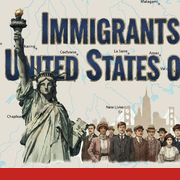
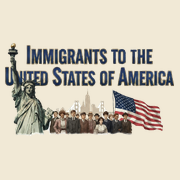
Add files via upload

diff --git a/index.html b/index.html
@@ -189,9 +189,9 @@ button:focus-visible, input:focus-visible, select:focus-visible { outline: 3px s
 /* ---------- úvodní obrazovka ---------- */
 #setup { position: fixed; inset: 0; overflow-y: auto; background: var(--ink); z-index: 40;
   padding: calc(env(safe-area-inset-top, 0px) + 16px) max(16px, env(safe-area-inset-right, 0px)) calc(env(safe-area-inset-bottom, 0px) + 24px) max(16px, env(safe-area-inset-left, 0px)); }
-.hero { max-width: 560px; margin: 0 auto 16px; border-radius: 12px; overflow: hidden; position: relative; aspect-ratio: 16 / 9; max-width: 100%;
-  background: url('board.jpg') 88% 2% / 520% auto no-repeat; border: 3px solid var(--paper); }
-.hero::after { content: ""; position: absolute; inset: 0; box-shadow: inset 0 -60px 50px -20px rgba(20,32,59,.65); }
+.hero { max-width: 560px; margin: 0 auto 16px; border-radius: 12px; overflow: hidden; background: var(--paper); border: 3px solid var(--paper); padding: 10px 12px; box-sizing: border-box; }
+.hero img { display: block; width: 100%; height: auto; }
+.sr-only { position: absolute; width: 1px; height: 1px; overflow: hidden; clip: rect(0 0 0 0); white-space: nowrap; }
 .hero-wrap { max-width: 560px; margin: 0 auto; }
 .setup-card { max-width: 560px; margin: 0 auto; background: var(--paper); border-radius: 12px; padding: 16px; display: flex; flex-direction: column; gap: 12px; }
 .setup-card h1 { margin: 0; font-family: var(--f-display); font-weight: 400; font-size: 26px; color: var(--ink); line-height: 1.1; text-wrap: balance; }
@@ -284,6 +284,24 @@ label.fl { display: flex; flex-direction: column; gap: 4px; font-family: var(--f
 .statecard .band .r.big { font-size: 9.6cqw; margin-bottom: 1.5cqw; }
 .statecard .band i { font-style: normal; }
 .statecard .band b { font-weight: 400; font-variant-numeric: tabular-nums; }
+
+.manual { display: flex; flex-direction: column; gap: 6px; }
+.mtoc { display: flex; flex-wrap: wrap; gap: 6px; padding-bottom: 6px; border-bottom: 2px solid var(--paper-3); }
+.mtoc button { border: 0; border-radius: 14px; background: var(--paper-2); color: var(--ink); font-family: var(--f-ui); font-size: 14px; font-weight: 600; padding: 5px 10px; }
+.msec { scroll-margin-top: 8px; }
+.msec h3 { font-family: var(--f-display); font-weight: 400; font-size: 19px; color: var(--ink); margin: 14px 0 4px; }
+.msec p, .msec li { font-size: 14.5px; line-height: 1.5; margin: 4px 0; }
+.msec ul { padding-left: 18px; margin: 4px 0; }
+.mex { background: #fff6dc; border-left: 4px solid var(--gold); border-radius: 6px; padding: 6px 10px; margin: 6px 0; }
+.mex b { font-family: var(--f-ui); font-size: 14px; color: var(--ink); }
+.mex p { margin: 2px 0 0; }
+.mcard { display: flex; gap: 12px; align-items: flex-start; background: #fbf7ec; border: 1px solid var(--paper-3); border-radius: 10px; padding: 8px; margin: 6px 0; }
+.mcard img { width: 120px; flex: none; border-radius: 6px; box-shadow: 0 2px 6px rgba(0,0,0,.25); }
+.mcard > div { min-width: 0; }
+.mcard > div > b { font-family: var(--f-ui); font-size: 17px; color: var(--ink); margin-right: 6px; }
+.mcard p { margin: 4px 0 0; font-size: 14px; line-height: 1.45; }
+.mrow { display: flex; gap: 10px; flex-wrap: wrap; margin: 6px 0; }
+@media (max-width: 420px) { .mcard img { width: 96px; } }
 </style>
 </head>
 <body>
@@ -1905,6 +1923,13 @@ if(typeof module!=="undefined")module.exports=(typeof window!=="undefined"?windo
       m.dataset.x = lx(s); m.dataset.y = ly(s) - 30;
       m.append(sv('circle', { r: 16, fill: st.legal ? '#fff' : '#d9d4c7', stroke: '#1d1d1f', 'stroke-width': 2 }));
       m.append(sv('polygon', { points: starPoly(14.5, 6), fill: st.legal ? c : 'none', stroke: st.legal ? '#1d1d1f' : c, 'stroke-width': st.legal ? 1.2 : 3 }));
+      if (st.label === 'independent') {
+        // vlajka značky Independent vedle hvězdy majitele
+        const fl = sv('g', { transform: 'translate(19,-1)' });
+        fl.append(sv('rect', { x: -0.5, y: -0.5, width: 31, height: 18, fill: '#1d1d1f', rx: 1.5 }));
+        const im = sv('image', { href: 'flag-independent.jpg', x: 0, y: 0, width: 30, height: 17, preserveAspectRatio: 'xMidYMid slice' });
+        fl.append(im); m.append(fl);
+      }
       if (st.label) {
         const b = sv('g', { transform: 'translate(17,-14)' });
         b.append(sv('rect', { x: -10, y: -9, width: 22, height: 17, rx: 4, fill: st.label === 'independent' ? '#c62420' : '#14203b' }));
@@ -2413,7 +2438,7 @@ if(typeof module!=="undefined")module.exports=(typeof window!=="undefined"?windo
   // ---------- menu ----------
   function openMenu() {
     sheet('Nabídka', (b, close) => {
-      b.append(h('button', { class: 'btn soft', onclick: () => { close(); openRules(); } }, 'Pravidla a výklad v aplikaci'));
+      b.append(h('button', { class: 'btn soft', onclick: () => { close(); openRules(); } }, 'Pravidla a manuál'));
       b.append(h('button', { class: 'btn soft', onclick: () => { close(); openLog(); } }, 'Záznam hry'));
       b.append(h('button', { class: 'btn soft', onclick: () => { fast = !fast; close(); renderPanel(); toast(fast ? 'Tahy počítače jsou zrychlené.' : 'Normální rychlost.'); } }, fast ? 'Normální rychlost počítače' : 'Zrychlit tahy počítače'));
       b.append(h('button', { class: 'btn red', onclick: () => { close(); confirmBox('Ukončit rozehranou hru a začít novou?', 'Nová hra', () => { clearSave(); showSetup(); }); } }, 'Nová hra'));
@@ -2424,39 +2449,120 @@ if(typeof module!=="undefined")module.exports=(typeof window!=="undefined"?windo
       G.log.slice().reverse().forEach(l => b.append(h('div', { style: 'font-size:14px;border-bottom:1px solid var(--paper-3);padding:4px 0' }, h('span', { class: 'tag' }, 'kolo ' + l.turn), l.text)));
     });
   }
+  // ============ pravidla a manuál ============
   function openRules() {
-    sheet('Pravidla', b => {
-      if (BETA ? (G && G.conf && G.conf.rules) : (E.CONF.shDeposit || E.CONF.halfRefund)) {
-        const R = BETA ? G.conf.rules : { shDeposit: E.CONF.shDeposit, halfRefund: E.CONF.halfRefund }, L = [];
-        if (R.shDeposit) L.push('<li>Jistina za zápůjčku Chief a Commander se snižuje o slevu z karet Shareholder.</li>');
-        if (R.halfRefund) L.push('<li>Kdo je při zápůjčce Chief nebo Commander přeplacen, dostane zpět jen polovinu jistiny.</li>');
-        if (L.length) b.append(h('div', { class: 'rules', html: '<h4>' + (BETA ? 'Pravidla této beta hry' : 'Doplněná pravidla') + '</h4><ul>' + L.join('') + '</ul>' }));
-      }
-      b.append(h('div', { class: 'rules', html: RULES_HTML }));
-    });
+    sheet('Pravidla a manuál', b => { b.append(buildManual()); });
   }
-  const RULES_HTML = `
-<h4>Cíl hry</h4><p>Kupujte státy a jezděte figurkou mezi bankami FED (New York) a BC (Sacramento). V bance inkasujete částky z karet vašich států. Vyhrává, kdo jako poslední nezbankrotuje (nebo kdo dosáhne cíle nastaveného na začátku).</p>
-<h4>Tah</h4><ul><li>Házíte dvěma kostkami. Dvojice znamená hod navíc. Za poplatek můžete házet 1 kostkou (5 000 $), 3 kostkami (10 000 $) nebo 4 kostkami (20 000 $).</li><li>Na rozcestí vybíráte směr. Do banky dojedete vždy – zbytek hodu propadá.</li><li>Při prvním okruhu FED → BC → FED smíte jednou hod přehodit.</li></ul>
-<h4>Mýtné</h4><ul><li>Každé překročení hranice cizího státu (vjezd i výjezd) stojí 1 000 $, každé zastavení v něm dalších 1 000 $.</li><li>Mýtné se platí až za státy legalizované průjezdem bankou FED.</li><li>Zastavení v bance se počítá jako zastavení ve státě: v bance FED se platí majiteli New Yorku, v bance BC majiteli Californie. Cesta do banky bez dalšího zastavení v tom státě tedy stojí nejméně 3 000 $ (vjezd, zastavení v bance, výjezd).</li><li>Double Label, Chief (×2) a Commander (×4) se násobí.</li></ul>
-<h4>Placené trasy</h4><p>Zkratky (modré s hvězdou) a Kanadská dálnice se platí bance, a pokud někdo vlastní Californii, jemu. Lodní a letecké linky se platí bance, nebo majiteli karty Sea Lines / Air Lines. Majitel příslušné karty jezdí zdarma.</p>
-<h4>Jak aplikace vykládá nejasná místa</h4><ul>
-<li>Každé políčko (i s hvězdou, lodí, letadlem) je 1 krok. Letadla a lodě neleží v žádném státě – nepočítá se tam mýtné ani se nedá nic koupit.</li>
-<li>Zákaz „vrátit se stejnou cestou": během jedné jízdy z banky nelze projet žádný úsek trasy dvakrát. Po příjezdu do banky začíná nová jízda a lze jet zpět stejnou trasou.</li>
-<li>Na placenou trasu nelze vjet bez peněz na jízdenku, pokud existuje jiná cesta.</li>
-<li>Dvojice platí jen při hodu dvěma kostkami.</li>
-<li>V bankách se vyplácí za všechny vlastněné státy, i nelegalizované. Legalizace ovlivňuje jen mýtné.</li>
-<li>Chief a Commander násobí mýtné a výplatu v BC, výplatu ve FED ne (podle textu na kartě „except FED").</li>
-<li>Special Label: při zastavení se platí navíc hodnota celého hodu × 1 000 $ (s násobením Chief/Commander).</li>
-<li>Shareholder: majitel má slevu na všechny speciální karty (sčítá se) a dostává od banky svůj podíl z ceny, kdykoli si speciální kartu koupí jiný hráč. Na Californii a značky se nevztahuje.</li>
-<li>Mafia vyřadí hráče, se kterým se figurky potkají nebo projedou stejným políčkem – kdokoli z nich jede. Na políčkách bank se vyřazovat nedá. Jakmile zůstane jediný hráč, hra okamžitě končí.</li>
-<li>Independent Label zakazuje vstup do státu i letadlem nebo lodí. Na leteckou či lodní linku, která vede jen do zakázaného státu, nelze nastoupit.</li>
-<li>Second National Bank: hráč, který vjede do jejího státu, inkasuje od majitele 1 000 $ za každý svůj stát a začíná tam novou jízdu (nezastavuje).</li>
-<li>Independent Label nelze umístit, pokud by některému hráči nezbyla žádná cesta z banky do banky ani okruh. Majiteli Californie musí vždy zůstat okruh kolem banky FED.</li>
-<li>Do slepé uličky nelze vjet: hra nabízí jen směry, ze kterých se dá dojet do banky bez otáčení a bez průjezdu státem s Independent Label.</li>
-<li>Nemá-li hráč na platbu, zaplatí, co má, a zbytek dluží. Dluh splatí prodejem majetku bance za nákupní cenu (zapůjčené karty vrátí za jistinu). Kdo nemůže, zbankrotuje a jeho majetek se vrací bance.</li>
-<li>Karta California: majitel v Sacramentu nic neinkasuje a ostatním vyplácí jejich podíl, ve FED dostává 30 000 $.</li>
-</ul>`;
+  function buildManual() {
+    const $s = s => D.states[s];
+    const C = E.CARDS, L = E.LABELS;
+    const ca = $s('California');
+    const shDep = E.CONF.shDeposit, half = E.CONF.halfRefund;
+    const priceOf = (kind, s) => { const c = D.chains.find(ch => ch.kind === kind && ch.ends.some(n => D.nodes[n].s === s)); return c ? fmt(c.price) : '—'; };
+    const shortNY = D.chains.find(c => c.kind === 'short' && c.ends.every(n => D.nodes[n].s === 'New York'));
+    const oh = $s('Ohio'), tx = $s('Texas');
+    const wrap = h('div', { class: 'manual' });
+    const secs = [];
+    const sec = (id, title, ...kids) => { secs.push([id, title]); wrap.append(h('section', { id: 'm-' + id, class: 'msec' }, h('h3', null, title), ...kids)); };
+    const p = (html) => h('p', { html });
+    const ul = (...items) => h('ul', null, items.map(t => h('li', { html: t })));
+    const ex = (title, html) => h('div', { class: 'mex' }, h('b', null, 'Příklad: ' + title), h('p', { html }));
+    const cardBox = (img, name, price, html, tall) => h('div', { class: 'mcard' }, h('img', { src: `card-${img}.jpg`, alt: name, class: tall ? 'tall' : '' }),
+      h('div', null, h('b', null, name), price ? h('span', { class: 'tag' }, price) : null, h('p', { html })));
+
+    sec('cil', 'Cíl hry',
+      p(`Jste přistěhovalec, který chce v Americe zbohatnout. Kupujete státy, jezdíte figurkou mezi dvěma bankami – <b>FED v New Yorku</b> a <b>BC (Bank of California) v Sacramentu</b> – a v bankách inkasujete výplaty za státy, které vlastníte. Ostatní hráči vám platí mýtné, když vašimi státy projíždějí.`),
+      p(`Vyhrává hráč, který jako poslední nezbankrotuje. Na začátku hry lze místo toho nastavit cíl: určitou hotovost nebo počet států. Hra vždy skončí, jakmile zůstane jediný hráč – ať ostatní zbankrotují, nebo je vyřadí Mafia.`));
+
+    sec('zacatek', 'Začátek hry',
+      ul(`Každý hráč začíná s <b>${fmt(E.CONF.startCash)}</b> na políčku banky FED v New Yorku (velká modrá hvězda).`,
+        `Hráči se střídají v pořadí podle úvodní obrazovky. Hrát může 2–7 hráčů, lidé i počítač (tři obtížnosti).`,
+        `Při <b>prvním</b> příjezdu do banky BC a při prvním návratu do banky FED dostane hráč bonus <b>${fmt(E.CONF.bonus)}</b>.`));
+
+    sec('tah', 'Průběh tahu',
+      p(`<b>1. Hod kostkami.</b> Standardně házíte dvěma kostkami zdarma. Za poplatek si můžete na celý tah zvolit 1 kostku (${fmt(E.DICE_FEE[1])}), 3 kostky (${fmt(E.DICE_FEE[3])}) nebo 4 kostky (${fmt(E.DICE_FEE[4])}). Jedna kostka se hodí, když chcete přesně zastavit na blízkém státu, více kostek, když spěcháte do banky.`),
+      p(`<b>2. Dvojice.</b> Hodíte-li dvěma kostkami dvě stejná čísla, po dokončení jízdy házíte znovu.`),
+      p(`<b>3. Přehození.</b> Během prvního okruhu FED → BC → FED smí každý hráč <b>jednou</b> svůj hod přehodit.`),
+      p(`<b>4. Jízda.</b> Figurka jede o tolik polí, kolik jste hodili. Každé políčko trasy (červeno-bílé, s hvězdou, s lodí nebo letadlem) je 1 krok. Na rozcestí aplikace zobrazí očíslované směry – klepněte na číslo na mapě nebo vyberte směr v panelu, kde vidíte i cenu jízdenky a mýtného.`),
+      p(`<b>5. Zastavení.</b> Kde figurka skončí, zaplatíte případné mýtné za zastavení. Stojíte-li ve státě, který nikdo nevlastní, můžete ho koupit.`),
+      ex('tah', `Hodíte 4 + 2 = 6. Figurka jede 6 polí, na rozcestí si vyberete cestu přes Pennsylvanii. Zastaví v Ohiu, které je volné – aplikace nabídne koupi za ${fmt(oh.price)}.`));
+
+    sec('trasa', 'Trasa a banky',
+      ul(`Jezdí se <b>z banky do banky</b>. Po příjezdu do banky (FED nebo BC) figurka vždy zastaví – zbytek hodu propadá – a začíná nová jízda.`,
+        `Během jedné jízdy se <b>nesmíte otočit ani projet stejný úsek dvakrát</b>. Do stejné banky se lze vrátit jen okruhem, ne stejnou cestou, kterou jste z ní odjeli. Po příjezdu do banky můžete jet zpět stejnou trasou.`,
+        `Aplikace nabízí jen směry, ze kterých se dá do banky dojet – do slepé uličky (třeba ke státu se značkou Independent) vás nepustí.`,
+        `Na placenou trasu nelze vjet bez peněz na jízdenku, pokud existuje jiná cesta.`),
+      p(`<b>Druhy tras:</b>`),
+      ul(`<b>Červené přerušované</b> – silnice zdarma.`,
+        `<b>Modré s hvězdami</b> – zkratky. Jízdenka se platí při vjezdu (např. zkratka přes stát New York ${shortNY ? fmt(shortNY.price) : ''}). Platí se bance, a pokud někdo vlastní Californii, jemu.`,
+        `<b>Kanadská dálnice</b> (Detroit – Buffalo) – placená stejně jako zkratky.`,
+        `<b>Letecké linky</b> (letadla) – např. New York – Seattle ${priceOf('air', 'Washington')}. Platí se bance, nebo majiteli karty Air Lines.`,
+        `<b>Lodní linky</b> – Houston – Tampa a Florida – New York. Platí se bance, nebo majiteli karty Sea Lines.`,
+        `Letadla a lodě neleží v žádném státě – nepočítá se tam mýtné a nedá se nic koupit.`),
+      ex('cesta letadlem', `Stojíte v New Yorku a vydáte se letadlem do Seattlu: zaplatíte jízdenku ${priceOf('air', 'Washington')} a za 5 kroků jste na druhé straně kontinentu. Majitel karty Air Lines letí zdarma.`));
+
+    sec('staty', 'Státy',
+      ul(`Stát koupíte, když <b>zastavíte</b> na kterémkoli políčku v něm a stát je volný. Stát New York nelze koupit z políčka banky FED, jen z ostatních políček ve státě. Washington D.C. je zdarma pro prvního, kdo na něj vstoupí.`,
+        `Každá karta státu má <b>cenu</b>, <b>výplatu ve FED</b> a <b>výplatu v BC</b>. Klepnutím na stát na mapě kartu kdykoli zobrazíte.`,
+        `Koupený stát je nejdřív <b>nelegalizovaný</b> (na mapě prázdná hvězda). Legalizujete ho průjezdem bankou FED – teprve pak za něj vybíráte mýtné. Výplaty v bankách dostáváte za všechny své státy.`,
+        `Dražší jsou státy u bank, státy s letištěm nebo přístavem a státy na krátkých okruzích kolem bank – vracíte se s nimi do banky častěji.`),
+      h('div', { class: 'mrow' }, stateCard('Ohio', 'card'), stateCard('Texas', 'card'), stateCard('New York', 'card')));
+
+    sec('myto', 'Mýtné',
+      ul(`Za <b>každé překročení hranice</b> cizího legalizovaného státu (vjezd i výjezd) platíte majiteli <b>1 000 $</b>.`,
+        `Za <b>každé zastavení</b> v takovém státě dalších <b>1 000 $</b>.`,
+        `Zastavení v bance se počítá jako zastavení ve státě: v bance FED platíte majiteli New Yorku, v bance BC majiteli Californie.`,
+        `Mýtné násobí Double Label (×2), Chief (×2) a Commander (×4) – násobky se sčítají násobením.`),
+      ex('průjezd', `Projedete Ohiem soupeře bez zastavení: vjezd 1 000 $ + výjezd 1 000 $ = <b>2 000 $</b>. Zastavíte-li v něm, je to <b>3 000 $</b>; zastavíte-li dvakrát (i v dalším tahu), <b>4 000 $</b>.`),
+      ex('násobení', `Soupeř má na Ohiu Double Label a k tomu kartu Chief: mýtné se násobí 2 × 2 = 4. Průjezd vás stojí 8 000 $, zastavení dalších 4 000 $.`),
+      ex('banka', `Přiletíte do New Yorku z Las Vegas a New York vlastní soupeř: vjezd 1 000 $ + zastavení v bance 1 000 $, a při odjezdu ještě výjezd 1 000 $ – celkem nejméně 3 000 $.`));
+
+    sec('banky', 'Výplaty v bankách',
+      ul(`<b>Banka FED (New York):</b> nejdřív se legalizují všechny vaše nové státy, pak dostanete součet výplat FED ze všech svých států (+ bonus za první příjezd).`,
+        `<b>Banka BC (Sacramento):</b> dostanete součet výplat BC ze svých států. Pokud Californii vlastní jiný hráč, vyplácí vám tento podíl on, ne banka.`,
+        `Mafie zapůjčená na jízdu se vrací při příjezdu do FED.`),
+      ex('výplata', `Vlastníte Ohio a Texas. Ve FED dostanete ${fmt(oh.fed)} + ${fmt(tx.fed)} = <b>${fmt(oh.fed + tx.fed)}</b>, v BC ${fmt(oh.bc)} + ${fmt(tx.bc)} = <b>${fmt(oh.bc + tx.bc)}</b>.`));
+
+    sec('california', 'Karta California',
+      cardBox('california', 'California', fmt(ca.price), `Koupíte ji zastavením na políčku v Californii. Majitel:<br>• jezdí po všech <b>zkratkách zdarma</b> a ostatní platí jízdenky za zkratky <b>jemu</b>;<br>• při každém příjezdu do banky FED dostane <b>${fmt(ca.fed)}</b>;<br>• v bance BC sám nic neinkasuje a ostatním hráčům <b>vyplácí jejich podíl</b> ze svých peněz;<br>• dostává mýtné za zastavení v bance BC.`),
+      ex('California', `Majitel Californie a celé Nové Anglie může jezdit okruhy kolem New Yorku po zkratkách zdarma a při každém návratu do FED inkasovat ${fmt(ca.fed)} plus výplaty svých států.`));
+
+    sec('karty', 'Speciální karty',
+      p(`Speciální karty kupujete kdykoli na začátku svého tahu v nabídce <b>Karty a značky</b> (Mafii jen na políčku banky FED). Ceny se dají snížit kartami Shareholder.`),
+      cardBox('sea-lines', C.sea.name, fmt(C.sea.price), `Lodní linky jezdíte zdarma a ostatní platí jízdenky za lodě vám.`),
+      cardBox('air-lines', C.air.name, fmt(C.air.price), `Letecké linky létáte zdarma a ostatní platí jízdenky za lety vám. Letadla zkracují cestu napříč kontinentem.`),
+      cardBox('chief', C.chief.name, `zápůjčka ${fmt(C.chief.deposit)} · koupě ${fmt(C.chief.price)}`, `<b>Zdvojnásobí</b> mýtné od ostatních a vaši výplatu v BC (ve FED ne). Lze si ji <b>zapůjčit</b> za vratnou jistinu – při vrácení ji dostanete zpět – nebo koupit. Kdo si ji zapůjčil, může ji později dokoupit za rozdíl.${shDep ? ' Jistina se snižuje o vaši slevu z karet Shareholder.' : ''} Jiný hráč vám zápůjčku může <b>přeplatit</b> vyšší jistinou${half ? ' – pak dostanete zpět jen <b>polovinu</b> své jistiny' : ''}.`),
+      cardBox('commander', C.commander.name, `zápůjčka ${fmt(C.commander.deposit)} · koupě ${fmt(C.commander.price)}`, `Jako Chief, ale mýtné a výplatu v BC <b>zčtyřnásobí</b>. S kartou Chief se násobky násobí (×8).${shDep ? ' Jistina se snižuje o slevu z karet Shareholder.' : ''}${half ? ' Při přeplacení se vrací jen polovina jistiny.' : ''}`),
+      cardBox('second-national-bank', C.snb.name, fmt(C.snb.price), `Postavíte třetí banku do svého státu (ne New York ani Californie). Když jí projede jiný hráč, vyplatíte mu 1 000 $ za každý jeho stát a jeho jízda tam začíná znovu (jako po bance). Vy dostáváte ve FED navíc <b>${fmt(C.snb.fed)}</b>.`),
+      cardBox('federal-highways', C.fedhw.name, fmt(C.fedhw.price), `Smíte projíždět státy se značkou Independent Label, kam ostatní nesmí.`),
+      cardBox('free-movement', C.freemove.name, fmt(C.freemove.price), `Smíte během jízdy <b>měnit směr</b> – hodí se hlavně k útěku před Mafií. Do banky se ale nesmíte vrátit stejnou cestou.`),
+      cardBox('mafia', C.mafia.name, fmt(C.mafia.price), `Zapůjčíte si ji jen na políčku banky FED, na jednu jízdu (do návratu do FED); peníze se nevrací. Kdo se s vaší figurkou na trase potká nebo projede stejným políčkem – kdokoli z vás jede – je <b>vyřazen ze hry</b>. Na políčkách bank se vyřazovat nedá.`),
+      cardBox('shareholder-10', 'Shareholder 10 % / 20 %', `${fmt(C.sh10.price)} / ${fmt(C.sh20a.price)}`, `Tři karty akcionáře (10 %, 20 %, 20 %). Majitel má na speciální karty <b>slevu</b> ve výši svého podílu (podíly se sčítají) a od banky dostává svůj <b>podíl z ceny</b> každé speciální karty, kterou koupí jiný hráč.${shDep ? ' Sleva platí i na jistinu za Chief a Commander.' : ''}`));
+
+    sec('znacky', 'Značky na státy',
+      p(`Značky kupujete v nabídce Karty a značky a umisťujete na své státy. Na každý stát patří nejvýš jedna značka; každého druhu jsou 4 kusy. Značky nelze dát na státy s bankou.`),
+      cardBox('double-label', L.double.name, fmt(L.double.price), `Zdvojnásobí mýtné za průjezd i zastavení v označeném státě.`),
+      cardBox('special-label', L.special.name, fmt(L.special.price), `Kdo ve státě zastaví, zaplatí navíc hodnotu svého hodu × 1 000 $ (při hodu 9 tedy 9 000 $ navíc).`),
+      cardBox('independent-label', L.independent.name, fmt(L.independent.price), `Ostatní hráči státem nesmějí projet – ani letadlem nebo lodí (kromě majitele Federal Highways). Značku nelze dát do státu sousedícího s bankou ani tak, aby některému hráči nezbyla cesta z banky do banky nebo okruh. Majiteli Californie musí vždy zůstat okruh kolem banky FED.`));
+
+    sec('obchod', 'Obchod, prodej a dluh',
+      ul(`<b>Obchod:</b> hráči mezi sebou mohou měnit státy (i se značkami), koupené karty a peníze za libovolnou dohodnutou cenu (nabídka Obchod). Vyměněný stát musí nový majitel znovu legalizovat ve FED. Zapůjčené karty obchodovat nelze.`,
+        `<b>Prodej bance:</b> v nabídce Majetek můžete kdykoli prodat stát nebo kartu bance za nákupní cenu; zapůjčenou kartu vrátíte za jistinu.`,
+        `<b>Dluh:</b> nemáte-li na platbu, zaplatíte, co máte, a zbytek dlužíte. Dluh splatíte prodejem majetku bance. Kdo nemůže zaplatit, zbankrotuje a jeho majetek se vrací bance.`));
+
+    sec('aplikace', 'Ovládání aplikace',
+      ul(`<b>Mapa:</b> posun prstem, přiblížení dvěma prsty nebo dvojitým klepnutím, tlačítka +/− a „celá mapa“. Tlačítko s terčem ukáže figurku hráče na tahu.`,
+        `<b>Karta státu:</b> klepněte kamkoli na území státu.`,
+        `<b>Horní lišta:</b> hráči a jejich hotovost; klepnutím zobrazíte jejich majetek. Okénko pod hráčem ukazuje jeho poslední hod.`,
+        `<b>Značky na mapě:</b> hvězda v barvě hráče = jeho stát (prázdná = nelegalizovaný), štítky 2× / ⚄ / ⛔ = Double, Special, Independent Label, SNB = druhá banka.`,
+        `<b>Na šířku</b> se panel přesune vpravo dolů a dá se sbalit tlačítkem –.`,
+        `Hra se průběžně ukládá v zařízení; v nabídce ☰ najdete záznam hry a novou hru.`));
+
+    // obsah nahoře
+    const toc = h('nav', { class: 'mtoc', 'aria-label': 'Obsah' }, secs.map(([id, t]) => h('button', { onclick: () => { const el = wrap.querySelector('#m-' + id); if (el) el.scrollIntoView({ behavior: 'smooth', block: 'start' }); } }, t)));
+    wrap.prepend(toc);
+    return wrap;
+  }
 
   // ============ úvodní obrazovka ============
   let setupPlayers = [{ name: 'Hráč 1', ai: false, color: 'red' }, { name: 'Počítač 1', ai: true, color: 'yellow' }, { name: 'Počítač 2', ai: true, color: 'green' }];
@@ -2472,7 +2578,7 @@ if(typeof module!=="undefined")module.exports=(typeof window!=="undefined"?windo
     const draw = () => {
       card.innerHTML = '';
       if (BETA) card.append(h('div', { class: 'betabar' }, h('b', null, 'BETA'), h('span', null, 'Zkušební verze pro ladění cen. Hry a nastavení se ukládají odděleně od originálu.')));
-      card.append(h('h1', null, 'Immigrants to the United States of America'), h('p', { class: 'lead' }, 'Desková hra pro 2–7 hráčů na jednom zařízení. Kupujte státy, vybírejte mýtné a dojeďte do banky.'));
+      card.append(h('h1', { class: 'sr-only' }, 'Immigrants to the United States of America'), h('p', { class: 'lead' }, 'Desková hra pro 2–7 hráčů na jednom zařízení. Kupujte státy, vybírejte mýtné a dojeďte do banky.'));
       if (saved && saved.pending && saved.pending.type !== 'over') {
         card.append(h('button', { class: 'btn red big', onclick: () => startGame(saved) }, h('span', null, 'Pokračovat v rozehrané hře', h('small', null, `Kolo ${saved.turn} · ${saved.players.filter(p => p.alive).map(p => p.name).join(', ')}`))));
         card.append(h('div', { class: 'sec' }, 'nebo nová hra'));
@@ -2508,10 +2614,10 @@ if(typeof module!=="undefined")module.exports=(typeof window!=="undefined"?windo
         startGame(ng);
       } }, 'Začít hru'));
       if (BETA) card.append(h('button', { class: 'btn ghost', onclick: openConf }, 'Upravit ceny a pravidla (beta)'));
-      card.append(h('button', { class: 'btn soft', onclick: openRules }, 'Pravidla'));
+      card.append(h('button', { class: 'btn soft', onclick: openRules }, 'Pravidla a manuál'));
     };
     draw();
-    S.append(h('div', { class: 'hero-wrap' }, h('div', { class: 'hero', role: 'img', 'aria-label': 'Výřez herní desky s názvem hry' })), card);
+    S.append(h('div', { class: 'hero-wrap' }, h('div', { class: 'hero' }, h('img', { src: 'title.webp', alt: 'Immigrants to the United States of America' }))), card);
   }
   function pickColor(p, done) {
     sheet(`Barva – ${p.name || 'hráč'}`, (b, close) => {

diff --git a/sw.js b/sw.js
@@ -1,5 +1,5 @@
-const CACHE='immigrants-v20';
-const FILES=["./", "index.html", "manifest.json", "bill-1000.jpg", "bill-10000.jpg", "bill-2000.jpg", "bill-500.jpg", "bill-5000.jpg", "board.jpg", "card-air-lines.jpg", "card-alabama.jpg", "card-arizona.jpg", "card-arkansas.jpg", "card-back-special.jpg", "card-back-state.jpg", "card-california.jpg", "card-chief.jpg", "card-colorado.jpg", "card-commander.jpg", "card-connecticut.jpg", "card-delaware.jpg", "card-double-label.jpg", "card-federal-highways.jpg", "card-florida.jpg", "card-free-movement.jpg", "card-georgia.jpg", "card-idaho.jpg", "card-illinois.jpg", "card-independent-label.jpg", "card-indiana.jpg", "card-iowa.jpg", "card-kansas.jpg", "card-kentucky.jpg", "card-louisiana.jpg", "card-mafia.jpg", "card-maine.jpg", "card-maryland.jpg", "card-massachusetts.jpg", "card-michigan.jpg", "card-minnesota.jpg", "card-mississippi.jpg", "card-missouri.jpg", "card-montana.jpg", "card-nebraska.jpg", "card-nevada.jpg", "card-new-hampshire.jpg", "card-new-jersey.jpg", "card-new-mexico.jpg", "card-new-york.jpg", "card-north-carolina.jpg", "card-north-dakota.jpg", "card-ohio.jpg", "card-oklahoma.jpg", "card-oregon.jpg", "card-pennsylvania.jpg", "card-rhode-island.jpg", "card-sea-lines.jpg", "card-second-national-bank.jpg", "card-shareholder-10.jpg", "card-shareholder-20a.jpg", "card-shareholder-20b.jpg", "card-south-carolina.jpg", "card-south-dakota.jpg", "card-special-label.jpg", "card-tennessee.jpg", "card-texas.jpg", "card-utah.jpg", "card-vermont.jpg", "card-virginia.jpg", "card-washington-dc.jpg", "card-washington.jpg", "card-west-virginia.jpg", "card-wisconsin.jpg", "card-wyoming.jpg", "icon-180.png", "icon-192.png", "icon-512.png", "icon-maskable.png"];
+const CACHE='immigrants-v22';
+const FILES=["./", "index.html", "manifest.json", "bill-1000.jpg", "bill-10000.jpg", "bill-2000.jpg", "bill-500.jpg", "bill-5000.jpg", "board.jpg", "card-air-lines.jpg", "card-alabama.jpg", "card-arizona.jpg", "card-arkansas.jpg", "card-back-special.jpg", "card-back-state.jpg", "card-california.jpg", "card-chief.jpg", "card-colorado.jpg", "card-commander.jpg", "card-connecticut.jpg", "card-delaware.jpg", "card-double-label.jpg", "card-federal-highways.jpg", "card-florida.jpg", "card-free-movement.jpg", "card-georgia.jpg", "card-idaho.jpg", "card-illinois.jpg", "card-independent-label.jpg", "card-indiana.jpg", "card-iowa.jpg", "card-kansas.jpg", "card-kentucky.jpg", "card-louisiana.jpg", "card-mafia.jpg", "card-maine.jpg", "card-maryland.jpg", "card-massachusetts.jpg", "card-michigan.jpg", "card-minnesota.jpg", "card-mississippi.jpg", "card-missouri.jpg", "card-montana.jpg", "card-nebraska.jpg", "card-nevada.jpg", "card-new-hampshire.jpg", "card-new-jersey.jpg", "card-new-mexico.jpg", "card-new-york.jpg", "card-north-carolina.jpg", "card-north-dakota.jpg", "card-ohio.jpg", "card-oklahoma.jpg", "card-oregon.jpg", "card-pennsylvania.jpg", "card-rhode-island.jpg", "card-sea-lines.jpg", "card-second-national-bank.jpg", "card-shareholder-10.jpg", "card-shareholder-20a.jpg", "card-shareholder-20b.jpg", "card-south-carolina.jpg", "card-south-dakota.jpg", "card-special-label.jpg", "card-tennessee.jpg", "card-texas.jpg", "card-utah.jpg", "card-vermont.jpg", "card-virginia.jpg", "card-washington-dc.jpg", "card-washington.jpg", "card-west-virginia.jpg", "card-wisconsin.jpg", "card-wyoming.jpg", "flag-independent.jpg", "icon-180.png", "icon-192.png", "icon-512.png", "icon-maskable.png", "title.webp"];
 self.addEventListener('install',e=>{e.waitUntil(caches.open(CACHE).then(c=>c.addAll(FILES)).then(()=>self.skipWaiting()));});
 self.addEventListener('activate',e=>{e.waitUntil(caches.keys().then(ks=>Promise.all(ks.filter(k=>k!==CACHE).map(k=>caches.delete(k)))).then(()=>self.clients.claim()));});
 self.addEventListener('fetch',e=>{
